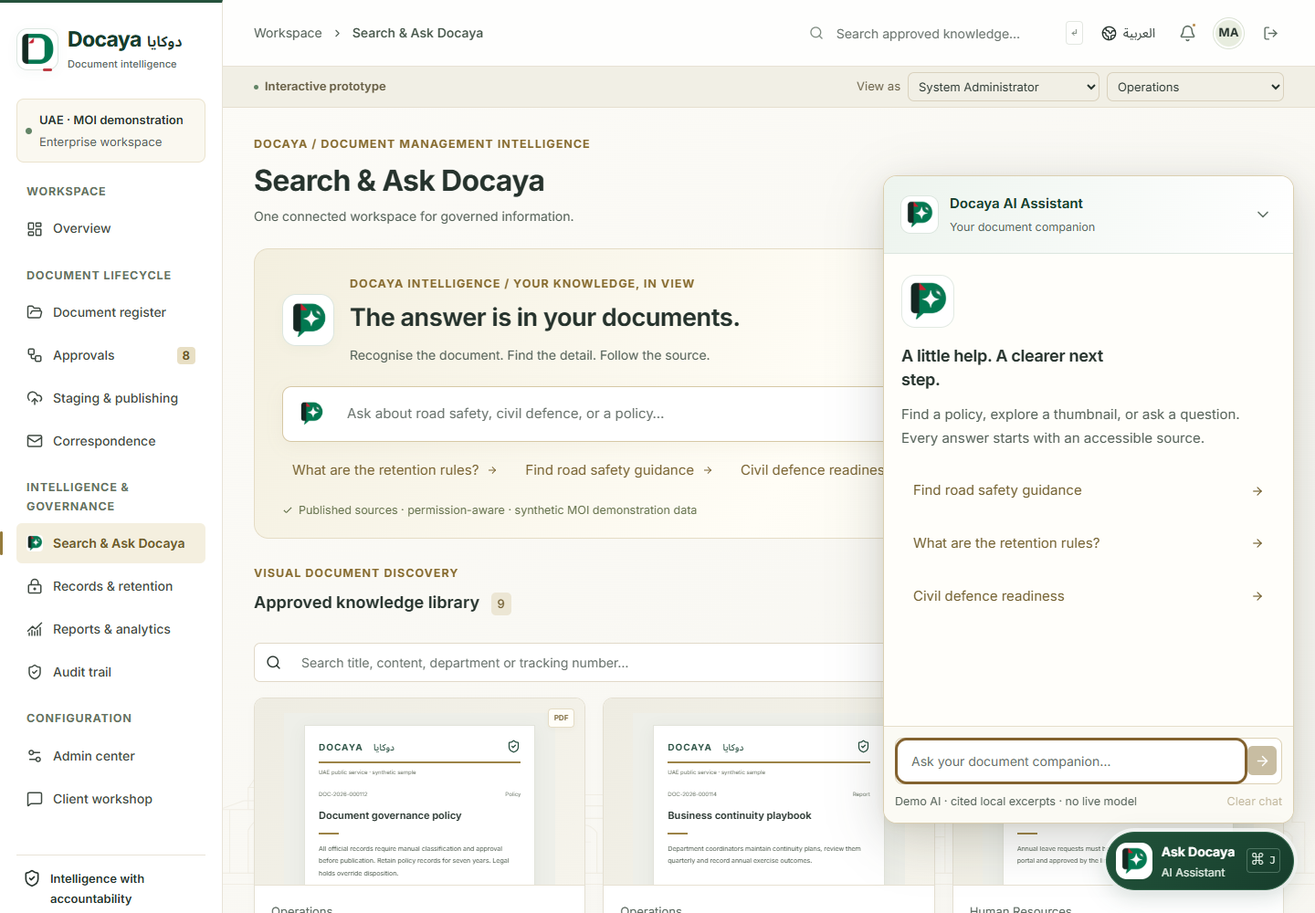
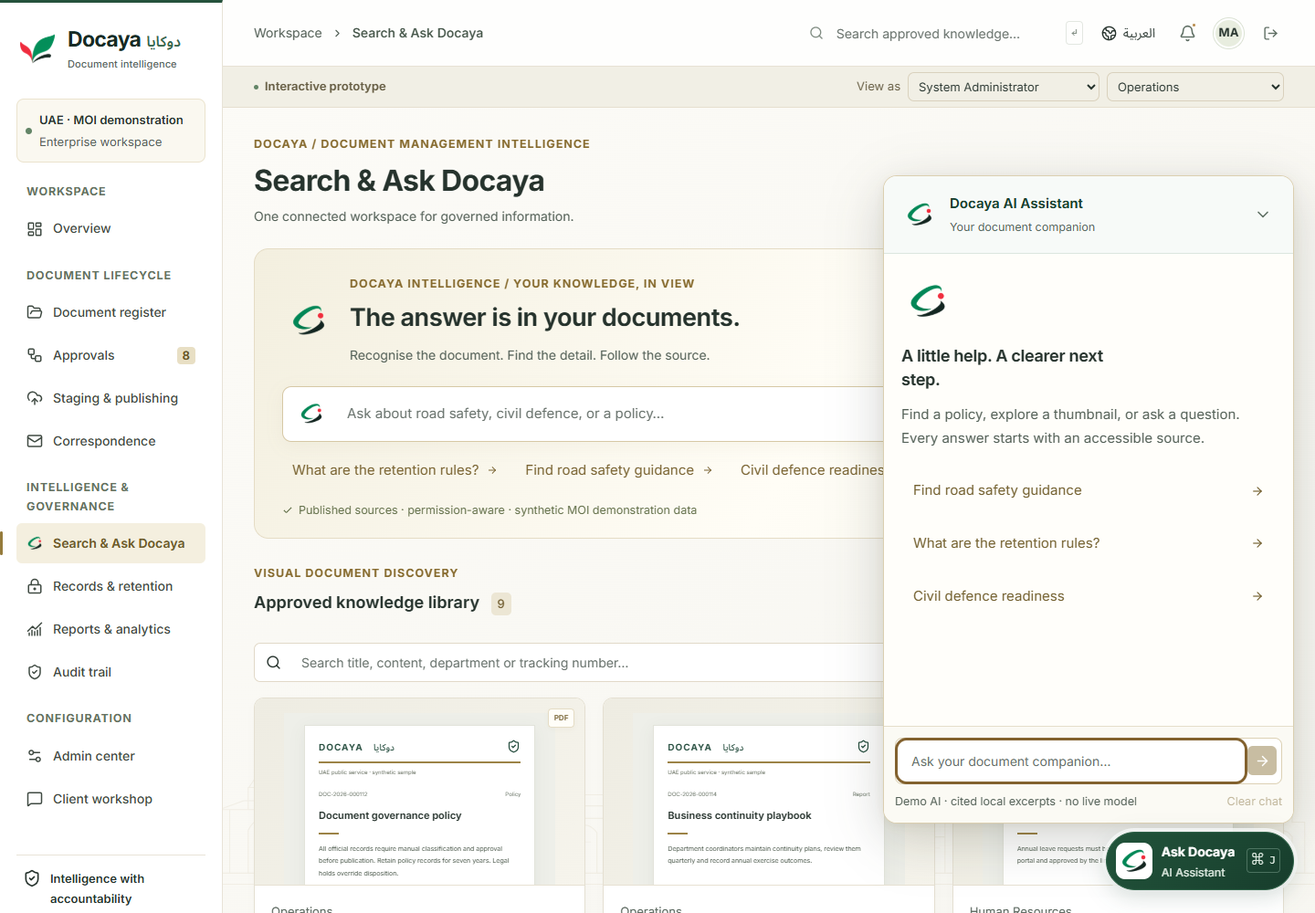
Refresh Docaya branding with flowing UAE-colour symbols

diff --git a/src/prototype/brand.css b/src/prototype/brand.css
@@ -15,21 +15,14 @@
   width: 46px;
   height: 46px;
   flex: 0 0 46px;
-  border: 1px solid #dce6e0;
-  border-radius: 12px;
-  background: #fff;
-  box-shadow: 0 3px 12px #163d2c09;
+  border: 0;
+  border-radius: 0;
+  background: transparent;
+  box-shadow: none;
 }
 
 .p-app .p-brand-mark::after {
-  content: '';
-  position: absolute;
-  width: 10px;
-  height: 3px;
-  border-radius: 2px;
-  background: #bd3c43;
-  inset-inline-end: 6px;
-  bottom: -2px;
+  content: none;
 }
 
 .p-app .p-brand > div {
@@ -42,18 +35,18 @@
   flex-wrap: wrap;
   gap: 0 6px;
   font-size: 23px;
-  font-weight: 750;
+  font-weight: 700;
   line-height: 1.3;
   letter-spacing: -0.7px;
-  color: #173d2d;
+  color: #182b25;
 }
 
 .p-app .p-brand b {
   margin: 0;
   font-size: 16px;
-  font-weight: 650;
+  font-weight: 600;
   line-height: 1.5;
-  color: #243c32;
+  color: #38684f;
 }
 
 .p-app .p-brand small {
@@ -74,6 +67,7 @@
   height: 48px;
   flex-basis: 48px;
   background: #fff;
+  border-radius: 10px;
 }
 
 .p-app .p-signin-story .p-brand strong,
@@ -104,24 +98,24 @@
   max-width: 100%;
   object-fit: contain;
   margin: 0 auto 20px;
-  border-radius: 18px;
+  border-radius: 0;
 }
 
 .p-nav-group .d-docaya-ai-mark,
 .p-lifecycle .d-docaya-ai-mark {
-  border-radius: 4px;
-  background: #fff;
+  border-radius: 0;
+  background: transparent;
 }
 
 .p-app .d-ai-emblem {
-  background: #fff;
-  border: 1px solid #dce6df;
-  border-radius: 15px;
-  box-shadow: 0 4px 12px #183d2c07;
+  background: transparent;
+  border: 0;
+  border-radius: 0;
+  box-shadow: none;
 }
 
 .p-app .d-assistant > header {
-  background: linear-gradient(110deg, #edf4ee, #fff);
+  background: #f7faf8;
   border-bottom-color: #dce6df;
 }
 
@@ -129,8 +123,9 @@
   width: 42px;
   height: 42px;
   flex: 0 0 42px;
-  background: #fff;
-  border: 1px solid #dce6df;
+  background: transparent;
+  border: 0;
+  border-radius: 0;
 }
 
 .p-app .d-assistant > header strong {
@@ -146,9 +141,9 @@
   place-items: center;
   width: 58px;
   height: 58px;
-  border: 1px solid #e1e9e2;
-  border-radius: 15px;
-  background: #fff;
+  border: 0;
+  border-radius: 0;
+  background: transparent;
   margin-block: 4px 18px;
 }
 
@@ -170,8 +165,8 @@
   height: 40px;
   flex: 0 0 40px;
   background: #fff;
-  border: 1px solid #ffffffc7;
-  border-radius: 12px;
+  border: 0;
+  border-radius: 10px;
 }
 
 .p-app .d-ai-launcher strong {

diff --git a/src/prototype/BrandMarks.tsx b/src/prototype/BrandMarks.tsx
@@ -8,7 +8,7 @@ export function DocayaMark({ size = 44, className = '', label = '' }: BrandMarkP
   return (
     <img
       className={`d-brand-image d-docaya-mark ${className}`.trim()}
-      src={`${import.meta.env.BASE_URL}brand/docaya-mark.png`}
+      src={`${import.meta.env.BASE_URL}brand/docaya-mark-v2.png`}
       width={size}
       height={size}
       alt={label}
@@ -21,7 +21,7 @@ export function DocayaAIMark({ size = 32, className = '', label = '' }: BrandMar
   return (
     <img
       className={`d-brand-image d-docaya-ai-mark ${className}`.trim()}
-      src={`${import.meta.env.BASE_URL}brand/ask-docaya-mark.png`}
+      src={`${import.meta.env.BASE_URL}brand/ask-docaya-mark-v2.png`}
       width={size}
       height={size}
       alt={label}

diff --git a/index.html b/index.html
@@ -4,8 +4,8 @@
     <meta charset="UTF-8" />
     <meta name="viewport" content="width=device-width, initial-scale=1.0" />
     <meta name="theme-color" content="#123c35" />
-    <link rel="icon" type="image/png" href="%BASE_URL%brand/docaya-mark.png" />
-    <link rel="apple-touch-icon" href="%BASE_URL%brand/docaya-mark.png" />
+    <link rel="icon" type="image/png" href="%BASE_URL%brand/docaya-mark-v2.png" />
+    <link rel="apple-touch-icon" href="%BASE_URL%brand/docaya-mark-v2.png" />
     <meta
       name="description"
       content="Docaya — دوكايا · Document Management Intelligence. An interactive bilingual document governance prototype."

diff --git a/src/prototype/PrototypeApp.tsx b/src/prototype/PrototypeApp.tsx
@@ -420,7 +420,7 @@ export default function PrototypeApp() {
           <div>
             <img
               className="d-welcome-art"
-              src={`${import.meta.env.BASE_URL}brand/docaya-welcome.png`}
+              src={`${import.meta.env.BASE_URL}brand/docaya-welcome-v2.png`}
               width={260}
               height={173}
               alt=""

diff --git a/docs/branding.md b/docs/branding.md
@@ -2,48 +2,50 @@
 
 **Docaya · دوكايا · Document Management Intelligence / ذكاء إدارة الوثائق**
 
-The prototype uses a document-inspired **D** mark for Docaya and a speech-bubble/spark mark for **Ask Docaya AI**. Green, red, near-black and white connect the identity to UAE colours while the application retains calm, readable document surfaces. The marks, landmark imagery and any decorative seal are original prototype branding, not an official ministry mark or endorsement.
+The current Docaya symbol uses three open, flowing page/ribbon forms: a tall green form at the upper right, a red form on the left and a dark lower arc. **Ask Docaya AI** uses a companion open-orbit symbol with a green ribbon, dark lower arc and small red node. The open forms suggest documents, movement and connected information without relying on a letter-shaped enclosure.
+
+Green, red, near-black and white connect the identity to UAE colours while the application retains calm, readable document surfaces. The symbols, civic imagery and any decorative seal are prototype branding, not an official ministry mark or endorsement.
 
 ## Asset gallery
 
-| Docaya                                                                                                                                                                         | Ask Docaya AI                                                                                                                                                                                       |
-| ------------------------------------------------------------------------------------------------------------------------------------------------------------------------------ | --------------------------------------------------------------------------------------------------------------------------------------------------------------------------------------------------- |
-| <a href="../public/brand/docaya-mark.png"><img src="../public/brand/docaya-mark.png" width="140" height="140" alt="Docaya document-shaped D logo in UAE-inspired colours"></a> | <a href="../public/brand/ask-docaya-mark.png"><img src="../public/brand/ask-docaya-mark.png" width="140" height="140" alt="Ask Docaya AI speech-bubble and spark logo in UAE-inspired colours"></a> |
+| Docaya                                                                                                                                                                                                         | Ask Docaya AI                                                                                                                                                                                                    |
+| -------------------------------------------------------------------------------------------------------------------------------------------------------------------------------------------------------------- | ---------------------------------------------------------------------------------------------------------------------------------------------------------------------------------------------------------------- |
+| <a href="../public/brand/docaya-mark-v2.png"><img src="../public/brand/docaya-mark-v2.png" width="140" height="140" alt="Docaya open flowing page symbol with green and red ribbons and a dark lower arc"></a> | <a href="../public/brand/ask-docaya-mark-v2.png"><img src="../public/brand/ask-docaya-mark-v2.png" width="140" height="140" alt="Ask Docaya AI open orbit with a green ribbon, dark lower arc and red node"></a> |
 
-<a href="../public/brand/docaya-welcome.png"><img src="../public/brand/docaya-welcome.png" width="680" alt="Three-dimensional Docaya welcome artwork"></a>
+<a href="../public/brand/docaya-welcome-v2.png"><img src="../public/brand/docaya-welcome-v2.png" width="680" alt="Docaya welcome illustration with an open paper fan and light civic architecture"></a>
 
-| File                                                       | Format and intended use                                                    |
-| ---------------------------------------------------------- | -------------------------------------------------------------------------- |
-| [docaya-mark.png](../public/brand/docaya-mark.png)         | 1254 × 1254 RGBA PNG with transparency; application identity and favicon.  |
-| [ask-docaya-mark.png](../public/brand/ask-docaya-mark.png) | 1254 × 1254 RGBA PNG with transparency; assistant and AI feature identity. |
-| [docaya-welcome.png](../public/brand/docaya-welcome.png)   | 1536 × 1024 RGB PNG; three-dimensional welcome illustration.               |
+| File                                                             | Format and intended use                                                       |
+| ---------------------------------------------------------------- | ----------------------------------------------------------------------------- |
+| [docaya-mark-v2.png](../public/brand/docaya-mark-v2.png)         | 1254 × 1254 RGBA PNG with transparency; application identity and favicon.     |
+| [ask-docaya-mark-v2.png](../public/brand/ask-docaya-mark-v2.png) | 1254 × 1254 RGBA PNG with transparency; assistant and AI feature identity.    |
+| [docaya-welcome-v2.png](../public/brand/docaya-welcome-v2.png)   | 1536 × 1024 landscape PNG; open paper fan with very light civic architecture. |
 
-Original assets are in [public/brand](../public/brand/). These deliverables are raster PNG files; vector source artwork is not included.
+Current assets are in [public/brand](../public/brand/). Files with the `-v2` suffix are the selected identity. The earlier unsuffixed PNGs remain as archived prior explorations and are not the current application marks. These deliverables are raster PNG files; vector source artwork is not included.
 
 ## Palette and usage
 
 | Colour     | Design reference | Role                                           |
 | ---------- | ---------------- | ---------------------------------------------- |
-| Green      | `#007A4D`        | Primary UAE-inspired brand colour.             |
-| Red        | `#CE2031`        | Small accent and visual recognition.           |
-| Near-black | `#152922`        | Structure, depth and dark contrast.            |
+| Green      | `#008A58`        | Primary UAE-inspired brand colour.             |
+| Red        | `#EE3344`        | Small accent and visual recognition.           |
+| Near-black | `#142820`        | Structure, depth and dark contrast.            |
 | White      | `#FFFFFF`        | Clear presentation surface and breathing room. |
 
 These values describe the palette intent. The generated artwork includes shading, highlights and rendered colour variation; its pixels are not limited to these four exact values.
 
-- Present the transparent logos on a white plate, especially against dark or illustrated backgrounds. Preserve their transparent margins and leave clear space around them.
+- Present the transparent symbols directly on light surfaces without a surrounding frame. Use a white plate only on dark backgrounds. Preserve their transparent margins and leave clear space around them.
 - Keep the square logos at their original aspect ratio. Scale them proportionally without stretching, cropping or adding competing effects.
 - Keep **Docaya / دوكايا** and assistant labels as native interface text using bundled **Inter** and **Noto Sans Arabic**. This preserves readable wordmarks, bilingual layout and accessibility at small sizes.
 - Use the welcome illustration as supporting artwork. Keep essential headings and controls in the interface, with adequate contrast and spacing.
 
-The shared [BrandMarks.tsx](../src/prototype/BrandMarks.tsx) components provide the Docaya and AI marks with configurable sizes and accessible labels. [brand.css](../src/prototype/brand.css) defines their presentation and white plates. Asset URLs respect the application's Vite base path so they work locally and on GitHub Pages.
+The shared [BrandMarks.tsx](../src/prototype/BrandMarks.tsx) components provide the Docaya and AI marks with configurable sizes and accessible labels. [brand.css](../src/prototype/brand.css) defines their unframed presentation on light surfaces and white plates on dark backgrounds. Asset URLs respect the application's Vite base path so they work locally and on GitHub Pages.
 
 ## In the application
 
 The Docaya mark appears in the sidebar, sign-in header and browser favicon. The companion AI mark identifies discovery, assistant responses and the floating Ask Docaya button. The welcome illustration appears above the sign-in introduction.
 
-<a href="images/docaya-assistant.png"><img src="images/docaya-assistant.png" width="840" alt="Docaya application with the new UAE-colour logo and branded AI assistant"></a>
+<a href="images/docaya-assistant.png"><img src="images/docaya-assistant.png" width="840" alt="Docaya application with UAE-inspired open ribbon symbols and branded AI assistant"></a>
 
 ## Generation provenance
 
-The assets were created using the **built-in image-generation tool**. The [final generation prompts](brand-prompts.md) record the exact prompt for each selected PNG. The source images were copied into `public/brand/` without pixel edits; both logo files have verified transparent alpha backgrounds.
+The assets were created using the **built-in image-generation tool**. The [generation prompts](brand-prompts.md) record the exact prompts and selected files. The current symbols are transparent PNGs; the welcome scene is a landscape illustration. Earlier assets remain available as archived explorations.

diff --git a/docs/brand-prompts.md b/docs/brand-prompts.md
@@ -1,29 +1,29 @@
 # Docaya artwork generation prompts
 
-Generated on **6 September 2026** with the **built-in image-generation tool**. These are the final prompts used for the selected assets. The PNGs were copied into the repository without altering their pixels. Both logo files contain genuine transparent alpha; the welcome illustration has an opaque ivory background.
+Generated on **6 September 2026** with the **built-in image-generation tool**. These are the exact final prompts for the current open-page identity. The selected PNGs were copied into the repository without pixel edits. Both logos have genuine transparent alpha; the welcome illustration has an opaque ivory background.
 
-See the [brand guide](branding.md) for downloads, previews and usage.
+See the [brand guide](branding.md) for downloads, previews and usage. Earlier unversioned assets remain in `public/brand/` as a previous exploration; the application uses the `-v2` assets below.
 
 ## Docaya logo
 
-Saved as [public/brand/docaya-mark.png](../public/brand/docaya-mark.png). New image, no reference image.
+Saved as [public/brand/docaya-mark-v2.png](../public/brand/docaya-mark-v2.png). New image, no reference image.
 
 ```text
-Use case: logo-brand. Create ONE premium standalone flat logo SYMBOL for Docaya, a bilingual UAE document intelligence software brand. Transparent background with a genuine alpha channel; square canvas. No words, no slogan, no mockup, no frame. Design a bold geometric capital D that also reads as a folded document: a strong near-black vertical spine at left, a beautifully rounded emerald-green D-shaped outer sweep at right, a clean white/transparent negative-space rectangular document aperture, and one small precise red folded-corner accent near the upper left. Use only UAE-flag-inspired green #007A4D, red #CE2031, near-black #152922, and white. Mature, distinctive enterprise software identity, balanced proportions, generous clean internal space, crisp vector-like edges, even geometry, highly legible at 32 pixels. The symbol should occupy about 86 percent of the canvas with a safe margin. Flat solid colours, no gradients, no shadows, no bevels, no gold, no flag waving, no official seal/eagle, no stars, no tiny decoration. Produce a polished final usable logo icon with alpha, not a presentation board.
+Use case: logo-brand. Create a completely fresh premium logo SYMBOL for Docaya, a contemporary UAE document-intelligence platform. This is an OPEN, AIRY, FLOWING-PAGES identity, not a monogram. No letter D, no box, no badge, no shield, no folder icon, no speech bubble, no sparkle. Design exactly three confident smooth ribbon/page shapes sweeping upward and outward from a shared lower centre, suggesting an open book becoming a light upward flight. The largest emerald-green page sweeps to the upper right; a smaller vivid-red page opens to the upper left; a slim charcoal-black lower page/arc supports the composition. Broad crisp white negative-space channels keep the three colours visibly separate. Overall silhouette is asymmetric but precisely balanced, elegant, optimistic, fluid and unmistakably modern. Think a world-class contemporary software identity with the simplicity and refinement of a strong independent design studio. UAE flag palette: fresh green #008A58, vivid red #EE3344, charcoal black #142820, white/transparent space. Flat vector-like solid forms, sharp clean contours with subtly rounded tips, no shading or gradients. Only 3 shapes, no fine lines or extra details. Recognisable at 24 pixels. Symbol occupies 80 percent of a square canvas. NO TEXT of any kind. Output on a GENUINELY TRANSPARENT ALPHA BACKGROUND, with empty transparent pixels outside the mark; do not draw a checkerboard or any background. This must look radically different from a heavy enclosed D-shaped document logo.
 ```
 
 ## Ask Docaya AI logo
 
-Saved as [public/brand/ask-docaya-mark.png](../public/brand/ask-docaya-mark.png). New image, no reference image.
+Saved as [public/brand/ask-docaya-mark-v2.png](../public/brand/ask-docaya-mark-v2.png). New image, no reference image.
 
 ```text
-Use case: logo-brand. Generate a final isolated transparent-background logo icon for a UAE document AI assistant. A clean geometric emerald green capital-D-shaped speech bubble with a short lower-left chat tail. Left quarter is a near-black vertical document spine with rounded top-left and bottom-left corners. One small red folded-paper corner is inset near the upper-left of the green area. One large opaque white four-point intelligence sparkle is centred in the green bubble. Only UAE green #007A4D, black #152922, red #CE2031 and white. Minimal enterprise identity, bold solid shapes, flat vector-like edges, a 24-pixel-readable silhouette. No text, no gradients, no shadows, no frame, no texture. The icon occupies 84% of a square canvas. OUTPUT WITH ACTUAL TRANSPARENT ALPHA OUTSIDE THE ICON. The white central sparkle stays opaque white. The external background must be empty transparent pixels, not white and not grey, with no pattern.
+Use case: logo-brand. Create a premium modern standalone SYMBOL for Ask Docaya AI, the companion assistant to a UAE document-intelligence brand with open flowing page ribbons. The symbol is an airy abstract conversation-orbit made from TWO elegant tapered curved page ribbons and ONE small red circular node. A broad emerald-green ribbon curves upward from lower left around an open white centre to upper right; a shorter charcoal-black curved page mirrors below it, leaving the orbit OPEN. A single vivid red circular node floats in the open gap at upper right. The flowing page ribbons should convey a helpful intelligence and knowledge in motion, with clean generous negative space and a distinctive asymmetric balanced silhouette. Fresh, optimistic, minimal, refined contemporary software identity. No enclosing badge or tile. No D monogram, no speech-bubble container, no sparkle or star, no robot face, no circuit pattern, no text. UAE flag palette: green #008A58, red #EE3344, charcoal #142820, white negative space. Flat vector-like solid forms, smooth clean edges, gently rounded tips, no gradients or shading. Exactly three separate substantial shapes readable at 24px. Centre the symbol in a square canvas with 10 percent safe margins. OUTPUT GENUINE TRANSPARENT ALPHA outside the mark, empty transparent pixels, no checkerboard drawn and no background.
 ```
 
 ## Welcome illustration
 
-Saved as [public/brand/docaya-welcome.png](../public/brand/docaya-welcome.png). New image, no reference image.
+Saved as [public/brand/docaya-welcome-v2.png](../public/brand/docaya-welcome-v2.png). New image, no reference image.
 
 ```text
-Use case: ads-marketing. Asset type: premium welcome illustration for Docaya, a modern UAE document intelligence application. Create a polished landscape 3:2 image on a very pale ivory-white background. At the centre a beautifully crafted minimalist emerald-green document folder/rounded architectural D-shaped portal holds three pristine white document sheets with subtle embossed abstract lines (no readable text). A tiny red folded-corner tab and a slender near-black document spine carry UAE flag colours. A small white four-point AI intelligence glint floats discreetly beside the documents. In the far background only, very subtle ivory architectural silhouettes suggest contemporary UAE civic buildings, an elegant dome and a slender modern tower, without an official seal or emblem. High-end soft 3D product illustration, satin ceramic and paper, clean rounded forms, gentle daylight, soft ambient shadows, restrained emerald green/red/black/white accents. Spacious composition with generous ivory negative space and all subjects fully inside the frame. Sophisticated enterprise technology branding, calm and credible, no people, no text, no labels, no watermarks, no busy circuitry, no national flag cloth, no gold, no oversaturated gradients. The central document-and-folder composition should remain recognisable when displayed at 300px wide.
+Use case: ads-marketing. Create a fresh minimalist editorial 3D illustration for the welcome screen of Docaya, a modern UAE document intelligence platform. Landscape 3:2 composition on clean ivory-white. At centre, three graceful sculptural paper ribbons rise from a shared lower centre into an airy open-book/wing silhouette: a tall emerald green page sweeping upward right, a shorter vivid red page opening left, and a thin charcoal arc beneath. Several pristine white paper sheets fan subtly behind them, with only a few embossed abstract lines, no text. The forms feel lightweight, fluid, optimistic and beautifully crafted in satin paper with rounded edges. A single small red sphere floats gently nearby as a companion intelligence motif. Very light low-contrast ivory UAE-inspired civic architecture in the far background: a restrained dome and slender modern tower; no official building signage or emblems. Spacious premium software brand illustration, realistic soft daylight, subtle shadows, quiet white negative space, green #008A58, red #EE3344, charcoal #142820 accents. Central object occupies around 65 percent of the canvas, all forms safely inside edges. No boxed D, no folders or containers, no sparkles, no badges, no gold, no lettering, no watermarks, no people, no flag cloth. The composition must feel open, dynamic and fresh, readable at 260px display width.
 ```

diff --git a/README.md b/README.md
@@ -6,7 +6,7 @@ An interactive English/Arabic document management prototype for UAE Ministry of 
 
 **[Open the live demo](https://ojashwas.github.io/intdocayaprototype/)** · [Client demonstration guide](docs/prototype-demo.md) · [Architecture](docs/architecture.md)
 
-<a href="public/brand/docaya-welcome.png"><img src="public/brand/docaya-welcome.png" width="680" alt="Three-dimensional Docaya welcome artwork in UAE-inspired colours"></a>
+<a href="public/brand/docaya-welcome-v2.png"><img src="public/brand/docaya-welcome-v2.png" width="680" alt="Docaya welcome artwork with an open paper fan and light UAE-inspired civic architecture"></a>
 
 Select **Enter demo workspace** and use **System Administrator** to explore all modules. Switch language to demonstrate Arabic and right-to-left layouts.
 
@@ -14,15 +14,15 @@ Select **Enter demo workspace** and use **System Administrator** to explore all 
 
 ## Latest experience
 
-| Area                       | What you can demonstrate                                                                                                       |
-| -------------------------- | ------------------------------------------------------------------------------------------------------------------------------ |
-| Document registration      | Upload an original or choose a sample, review its preview and complete Capture, Classify and Review & submit.                  |
-| Automatic classification   | Inspect local suggestions and their rationale, override fields and explicitly confirm classification in the registration form. |
-| Approval queue             | Scan pending documents by due date, open a focused review drawer, approve or return with a reason, and continue explicitly.    |
-| Search & Ask Docaya        | Browse document thumbnails or a list, filter results, save queries and open cited records.                                     |
-| Docaya AI Assistant        | Open the floating bottom-right assistant, inspect source thumbnails and provide response feedback.                             |
-| UAE design and readability | Distinct Docaya and Ask Docaya AI marks, UAE-inspired colours, a 3D welcome illustration, bundled Inter and Noto Sans Arabic.  |
-| Governance and workshops   | Explore holds, retention, correspondence, reports, audit history and M1–M15 coverage; record and export client expectations.   |
+| Area                       | What you can demonstrate                                                                                                                  |
+| -------------------------- | ----------------------------------------------------------------------------------------------------------------------------------------- |
+| Document registration      | Upload an original or choose a sample, review its preview and complete Capture, Classify and Review & submit.                             |
+| Automatic classification   | Inspect local suggestions and their rationale, override fields and explicitly confirm classification in the registration form.            |
+| Approval queue             | Scan pending documents by due date, open a focused review drawer, approve or return with a reason, and continue explicitly.               |
+| Search & Ask Docaya        | Browse document thumbnails or a list, filter results, save queries and open cited records.                                                |
+| Docaya AI Assistant        | Open the floating bottom-right assistant, inspect source thumbnails and provide response feedback.                                        |
+| UAE design and readability | Open page/ribbon Docaya and orbit AI symbols, UAE-inspired colours, a paper-fan welcome illustration, bundled Inter and Noto Sans Arabic. |
+| Governance and workshops   | Explore holds, retention, correspondence, reports, audit history and M1–M15 coverage; record and export client expectations.              |
 
 ![Docaya document register with readable typography and synthetic UAE MOI records](docs/images/docaya-register.png)
 

diff --git a/docs/prototype-demo.md b/docs/prototype-demo.md
@@ -101,7 +101,7 @@ Accepted formats are **PDF, DOCX, XLSX, PPTX, PNG, JPEG, TIFF and TXT**, with a 
 
 ## Readability and UAE visual design
 
-The current design pairs a document-shaped Docaya **D** mark with a distinct **Ask Docaya AI** speech-bubble/spark mark and a three-dimensional welcome illustration. The branding draws on UAE green, red, near-black and white; the document workspace retains warm ivory, muted gold and a faint decorative UAE-inspired skyline. Logos appear on white plates, with native English/Arabic wordmarks for readability. See [Brand assets and usage](branding.md) for the PNG gallery and palette.
+The current Docaya symbol has three open flowing page/ribbon forms in green, red and near-black. **Ask Docaya AI** uses a companion open orbit with a green ribbon, dark lower arc and small red node. An open paper fan and very light civic architecture form the welcome illustration. The branding draws on UAE colours; the document workspace retains warm ivory, muted gold and a faint decorative UAE-inspired skyline. Symbols sit directly on light surfaces, with white plates only on dark backgrounds and native English/Arabic wordmarks for readability. See [Brand assets and usage](branding.md) for the current `-v2` PNG gallery and palette; earlier PNGs are retained as archived explorations.
 
 The artwork and decorative seal are not official ministry emblems. Synthetic scenarios cover Traffic & Patrols, Civil Defence, Forensic Sciences, Residency & Identity, and Strategy & Governance.
 
